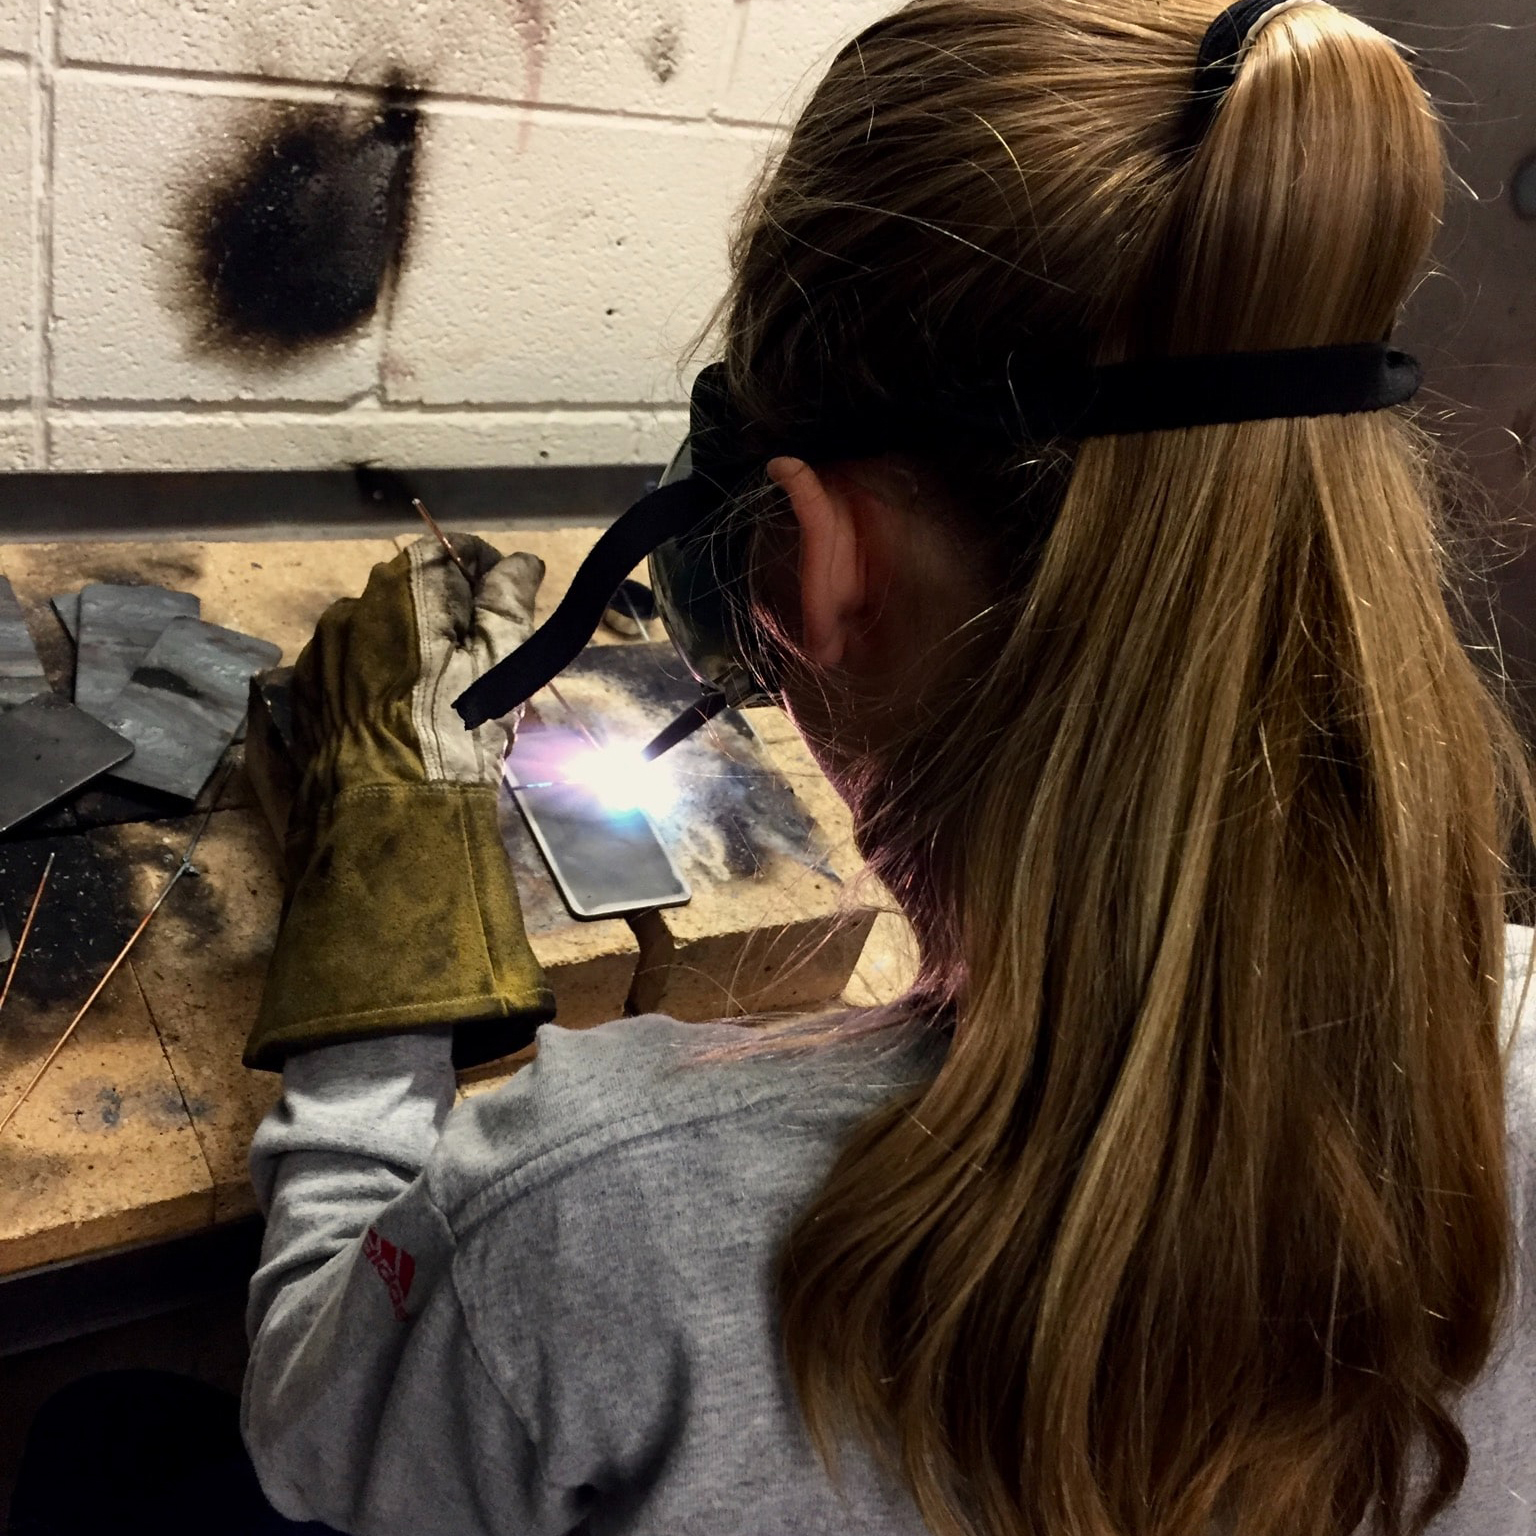
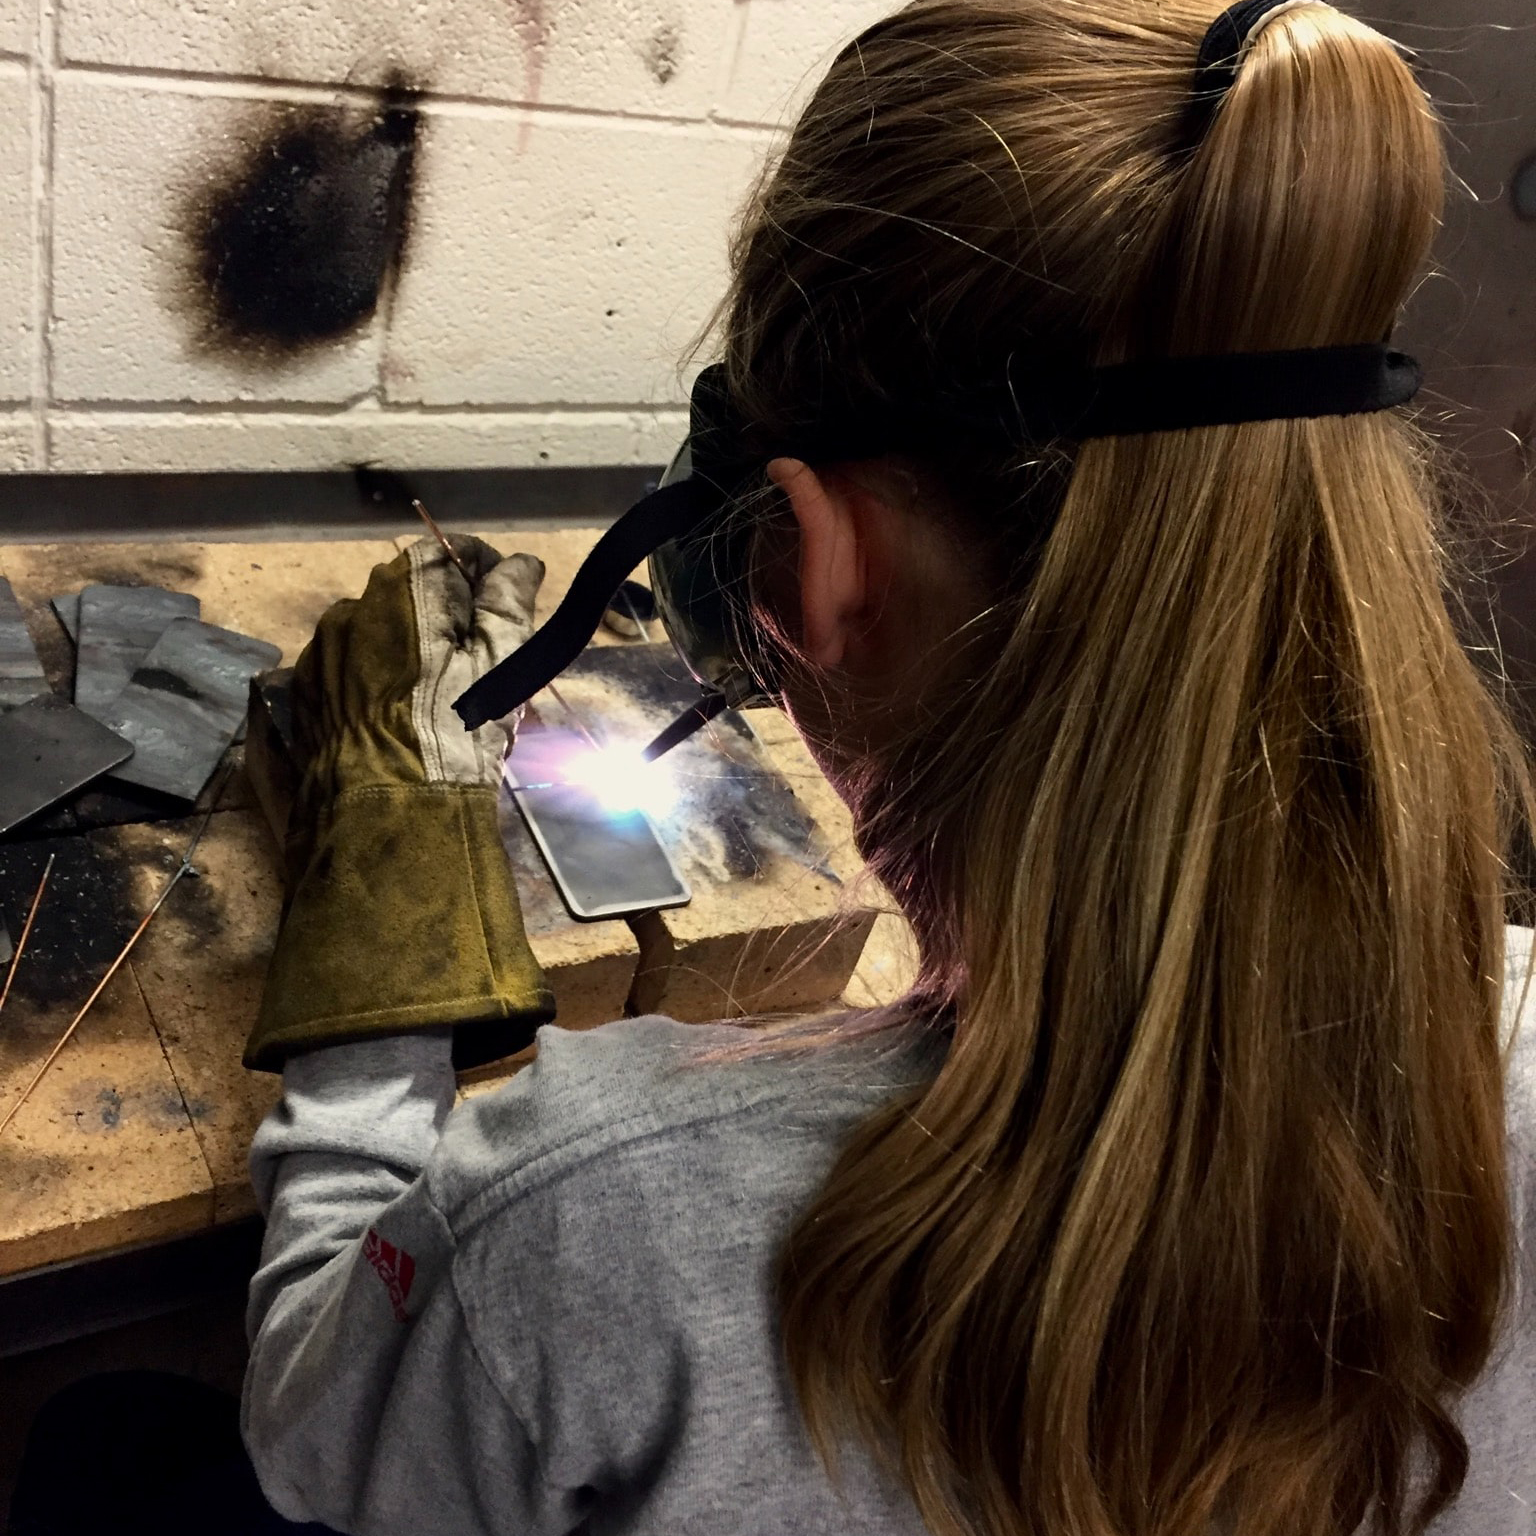
Update picture

diff --git a/styles.css b/styles.css
@@ -102,6 +102,7 @@ p {
 img {
   max-width: 100%;
   height: auto;
+  vertical-align: top;
 }
 
 
@@ -410,7 +411,7 @@ form {
     flex-direction: row;
     min-height: 100vh;
     justify-content: center;
-    align-items: center;
+    align-items: flex-end;
     width: 100%;
   }
 
@@ -418,6 +419,7 @@ form {
     margin-left: 4rem;
     width: 35%;
     padding: 1.5rem;
+    margin-bottom: 3rem;
   }
 
   .information-image {}

diff --git a/index.html b/index.html
@@ -76,7 +76,7 @@
     </div>
     <div class="information-image-wrapper">
       <figure><img
-          src="https://images.unsplash.com/photo-1563229708-55d0a600b01d?crop=entropy&cs=srgb&fm=jpg&ixid=MnwxNDU4OXwwfDF8cmFuZG9tfHx8fHx8fHx8MTYzODI1NjE5Mg&ixlib=rb-1.2.1&q=85"
+          src="story-picture.jpg"
           alt="Photo of girl" class="information-image"></figure>
     </div>
   </section>
